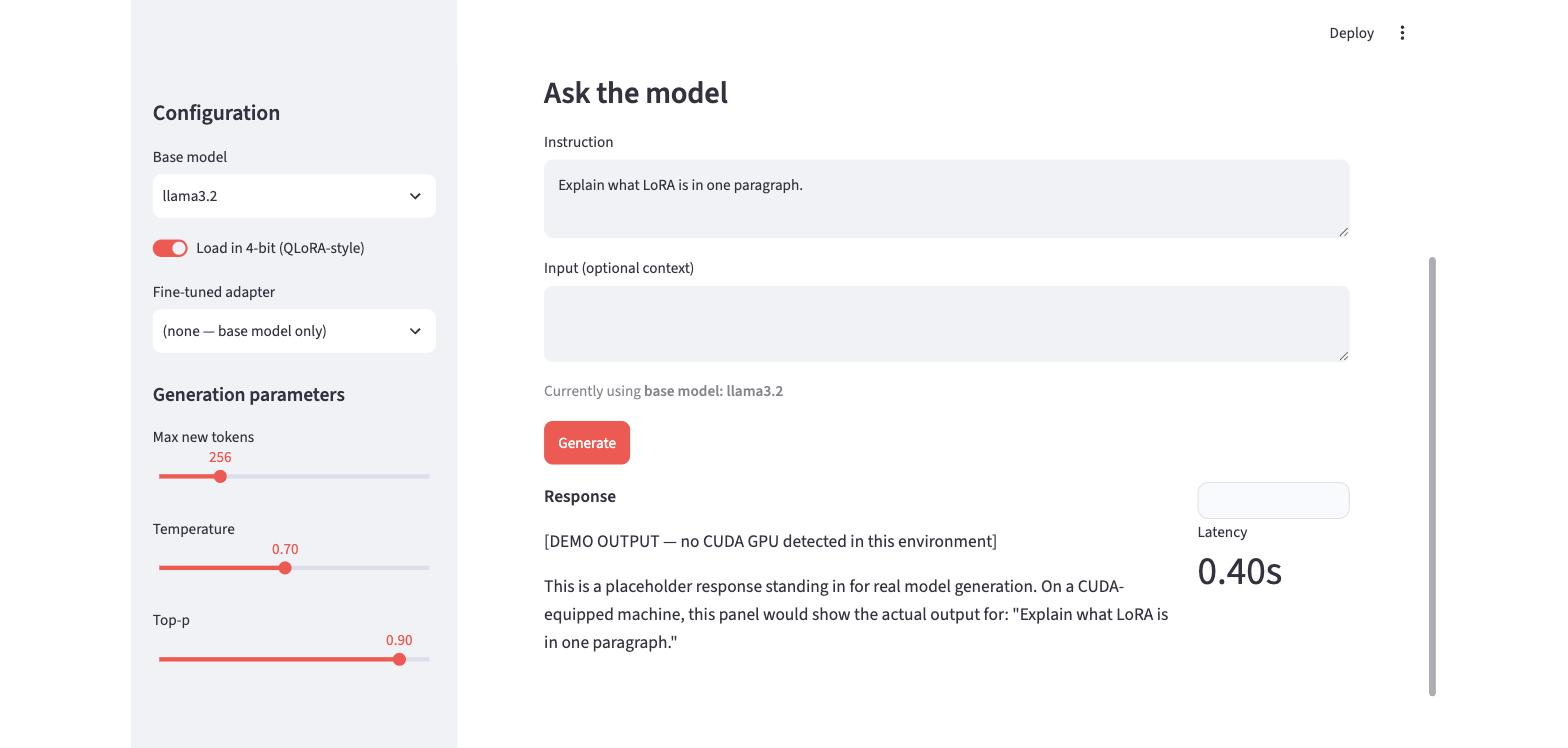
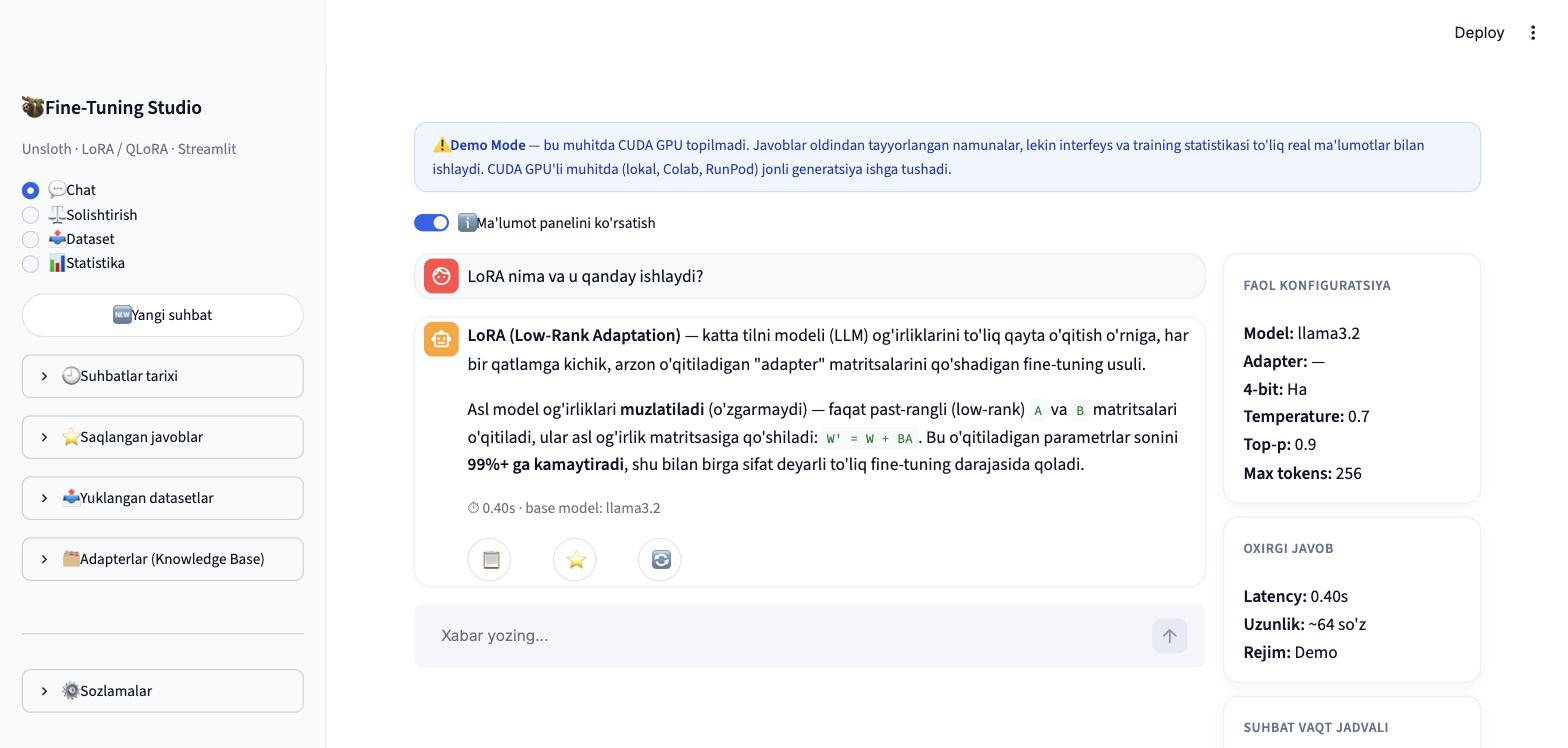
Update README screenshots to match the new blue+white UI
The chat/compare/stats screenshots were from the old dark-theme
form-based interface. Recaptured all three against the redesigned
chat UI and re-added the Screenshots table to the README (dropped in
the earlier rewrite along with the rest of the old layout).

diff --git a/local-llm-finetune-unsloth/README.md b/local-llm-finetune-unsloth/README.md
@@ -68,6 +68,14 @@ flowchart LR
 
 > GPU'siz muhitda (masalan shu screenshot) ilova **Demo Mode**da ishlaydi — interfeys va training statistikasi to'liq ishlaydi, faqat jonli generatsiya o'rniga placeholder javob ko'rsatiladi.
 
+<div align="center">
+
+| Chat | Solishtirish | Statistika |
+|---|---|---|
+| ![Chat](docs/screenshots/chat.jpg) | ![Solishtirish](docs/screenshots/compare.jpg) | ![Statistika](docs/screenshots/stats.jpg) |
+
+</div>
+
 ---
 
 ## 🧱 Texnologiyalar
